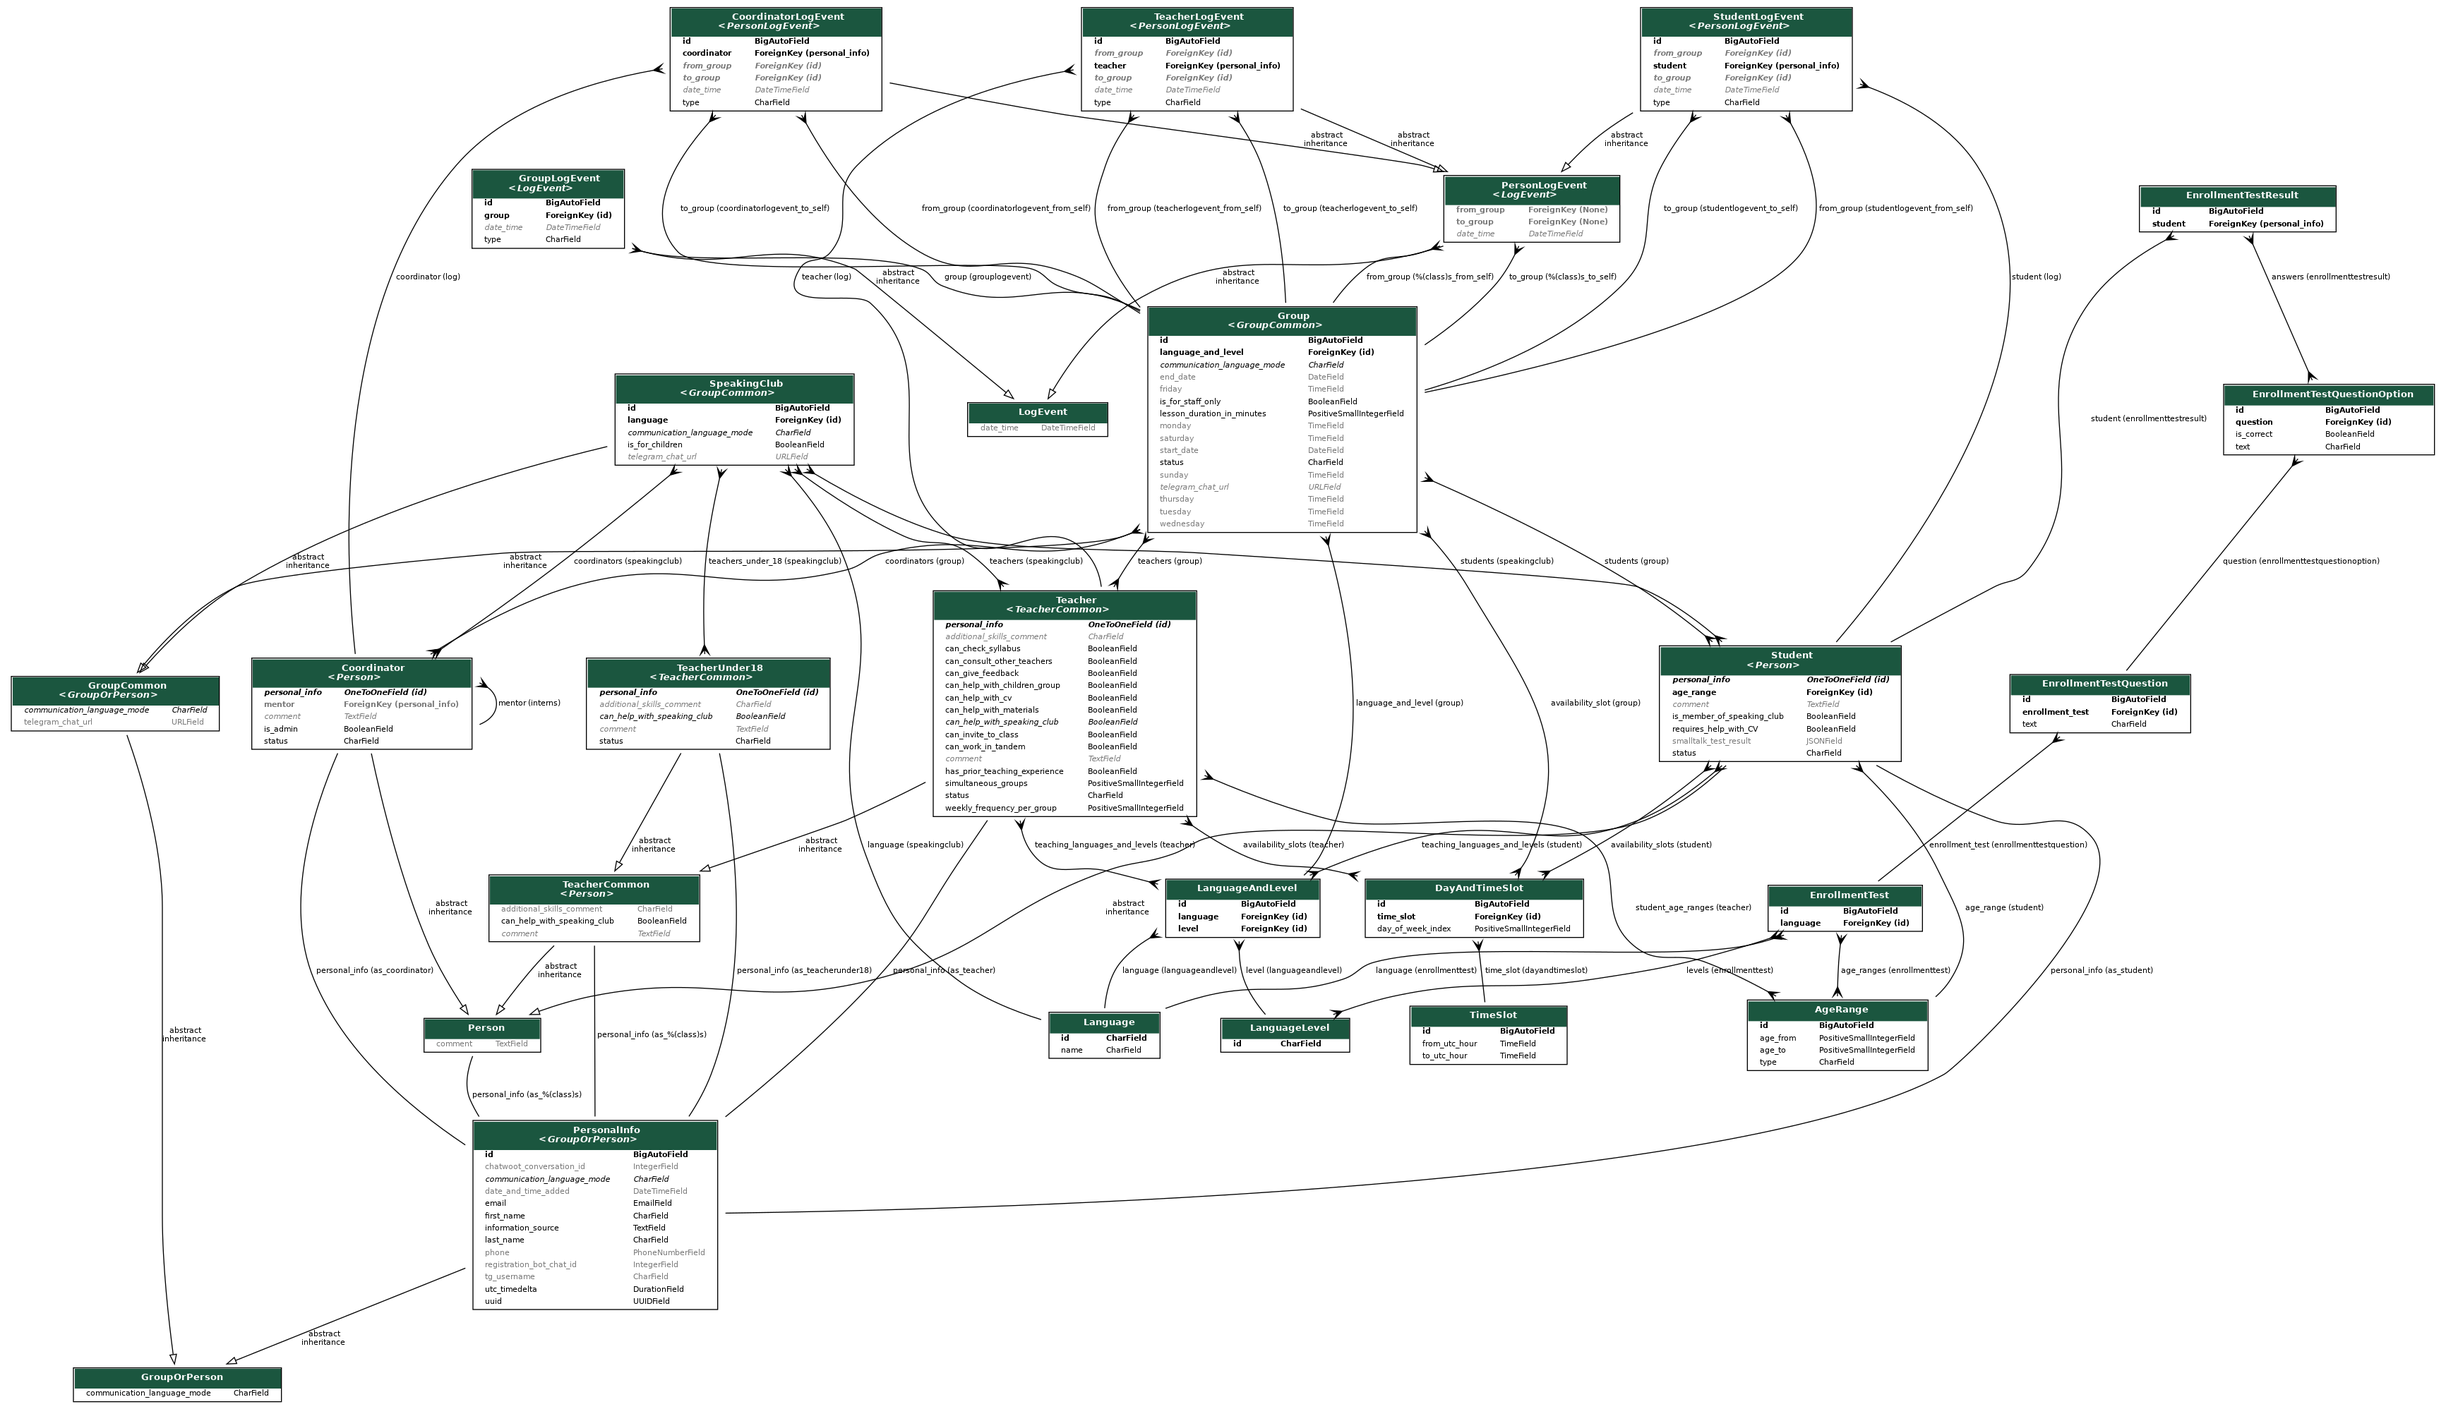
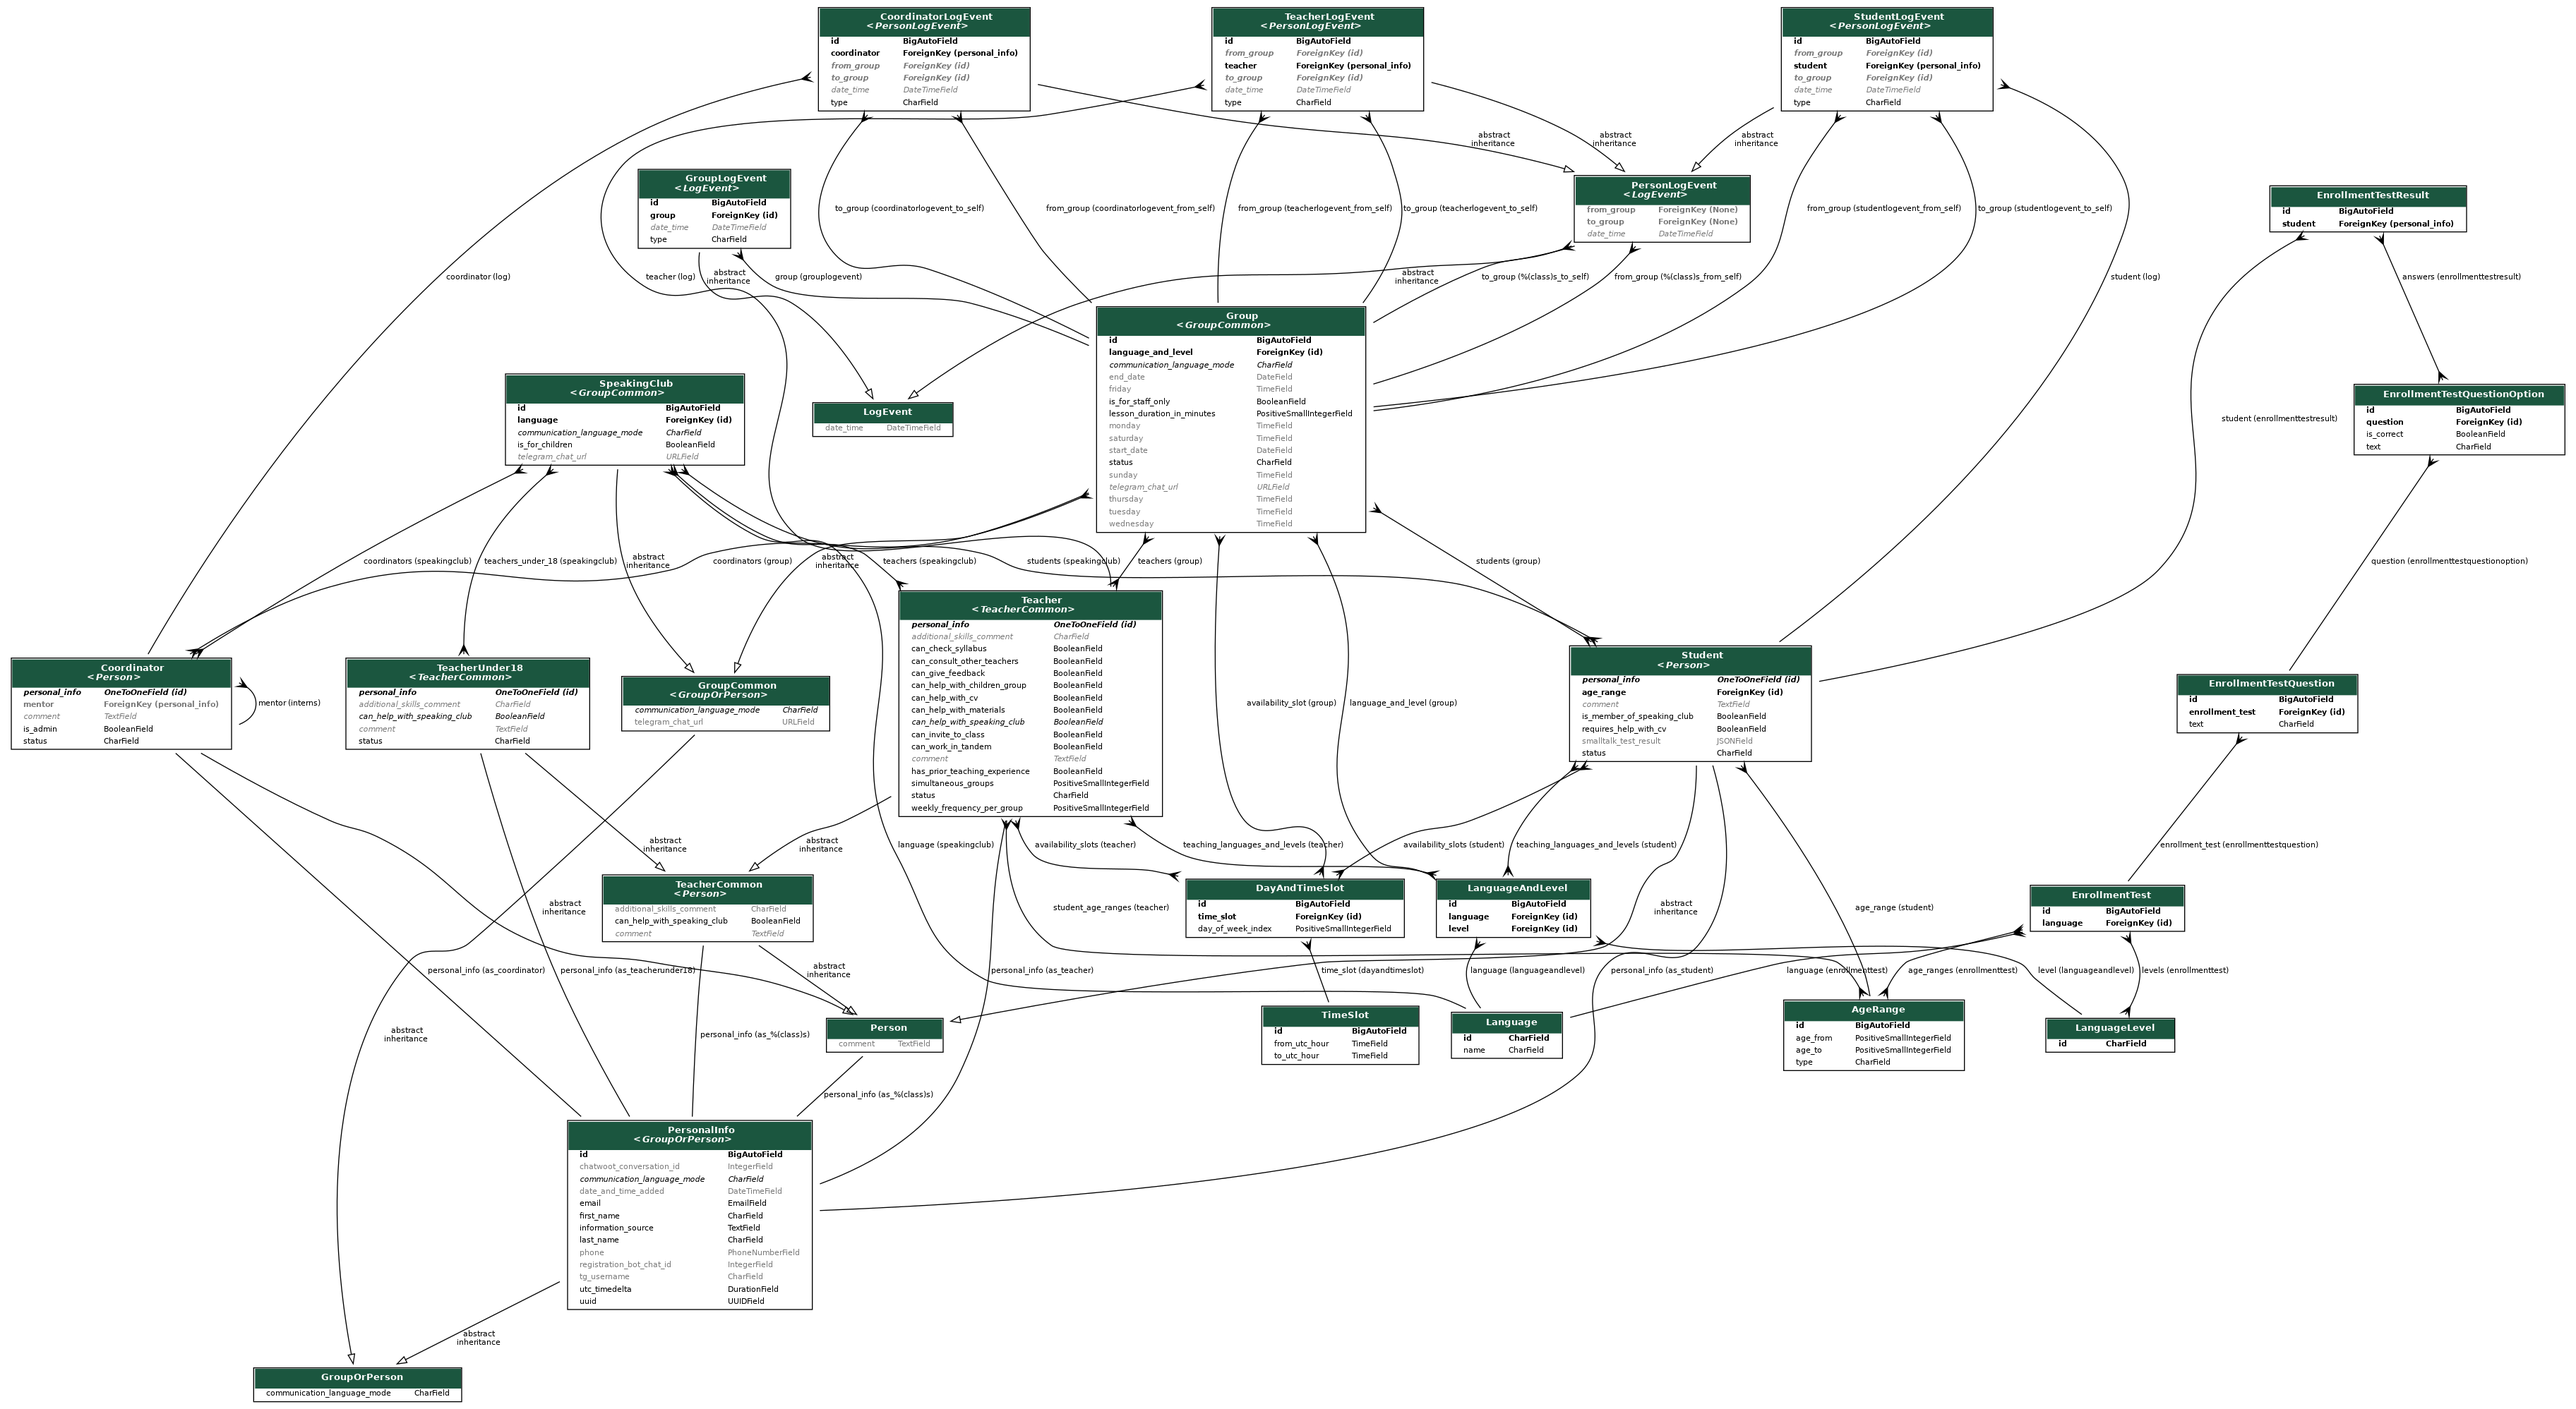
rename `Student.requires_help_with_CV` to all-lowercase

diff --git a/api/migrations/0001_initial.py b/api/migrations/0001_initial.py
@@ -1,4 +1,4 @@
-# Generated by Django 4.1.7 on 2023-03-09 21:48
+# Generated by Django 4.1.7 on 2023-03-12 13:46
 
 import datetime
 from django.db import migrations, models
@@ -463,7 +463,7 @@ class Migration(migrations.Migration):
                     ),
                 ),
                 (
-                    "requires_help_with_CV",
+                    "requires_help_with_cv",
                     models.BooleanField(
                         default=False,
                         help_text="Does the student need help with CV at the moment?",

diff --git a/api/models/people.py b/api/models/people.py
@@ -148,7 +148,7 @@ class Student(Person):
         verbose_name="Speaking club status",
         help_text="Is the student a member of a speaking club at the moment?",
     )
-    requires_help_with_CV = models.BooleanField(
+    requires_help_with_cv = models.BooleanField(
         default=False,
         verbose_name="CV help status",
         help_text="Does the student need help with CV at the moment?",
